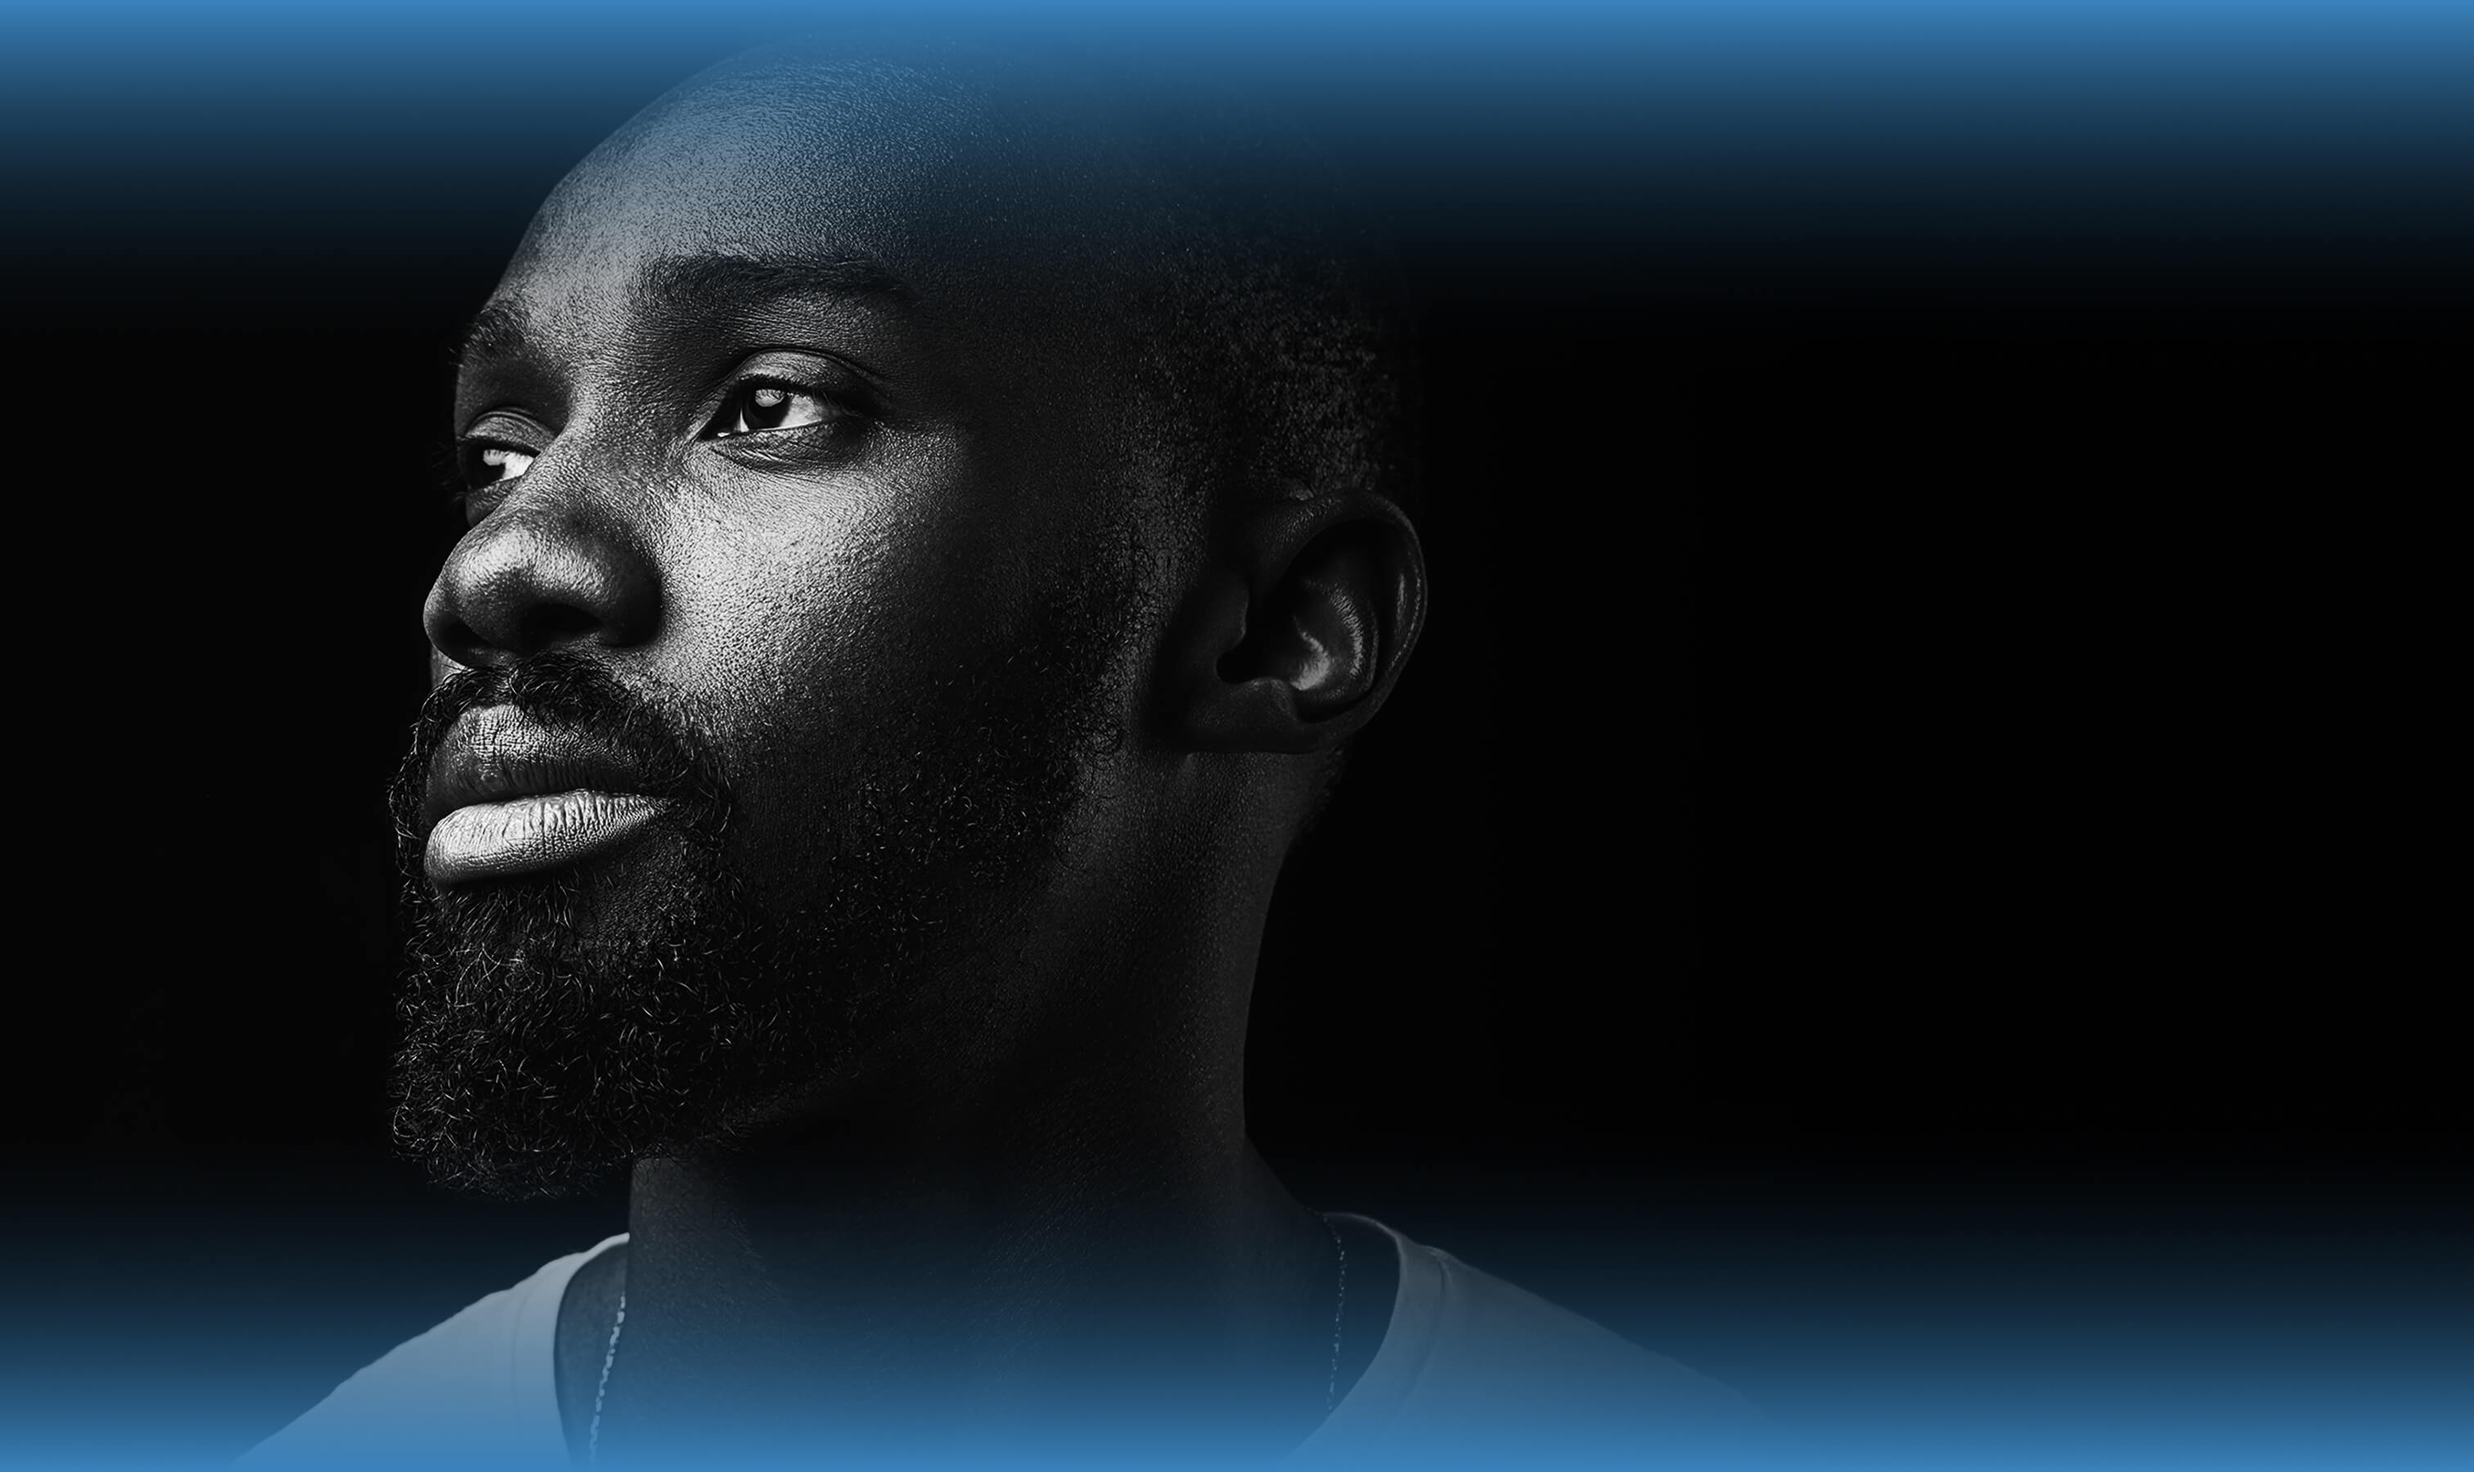
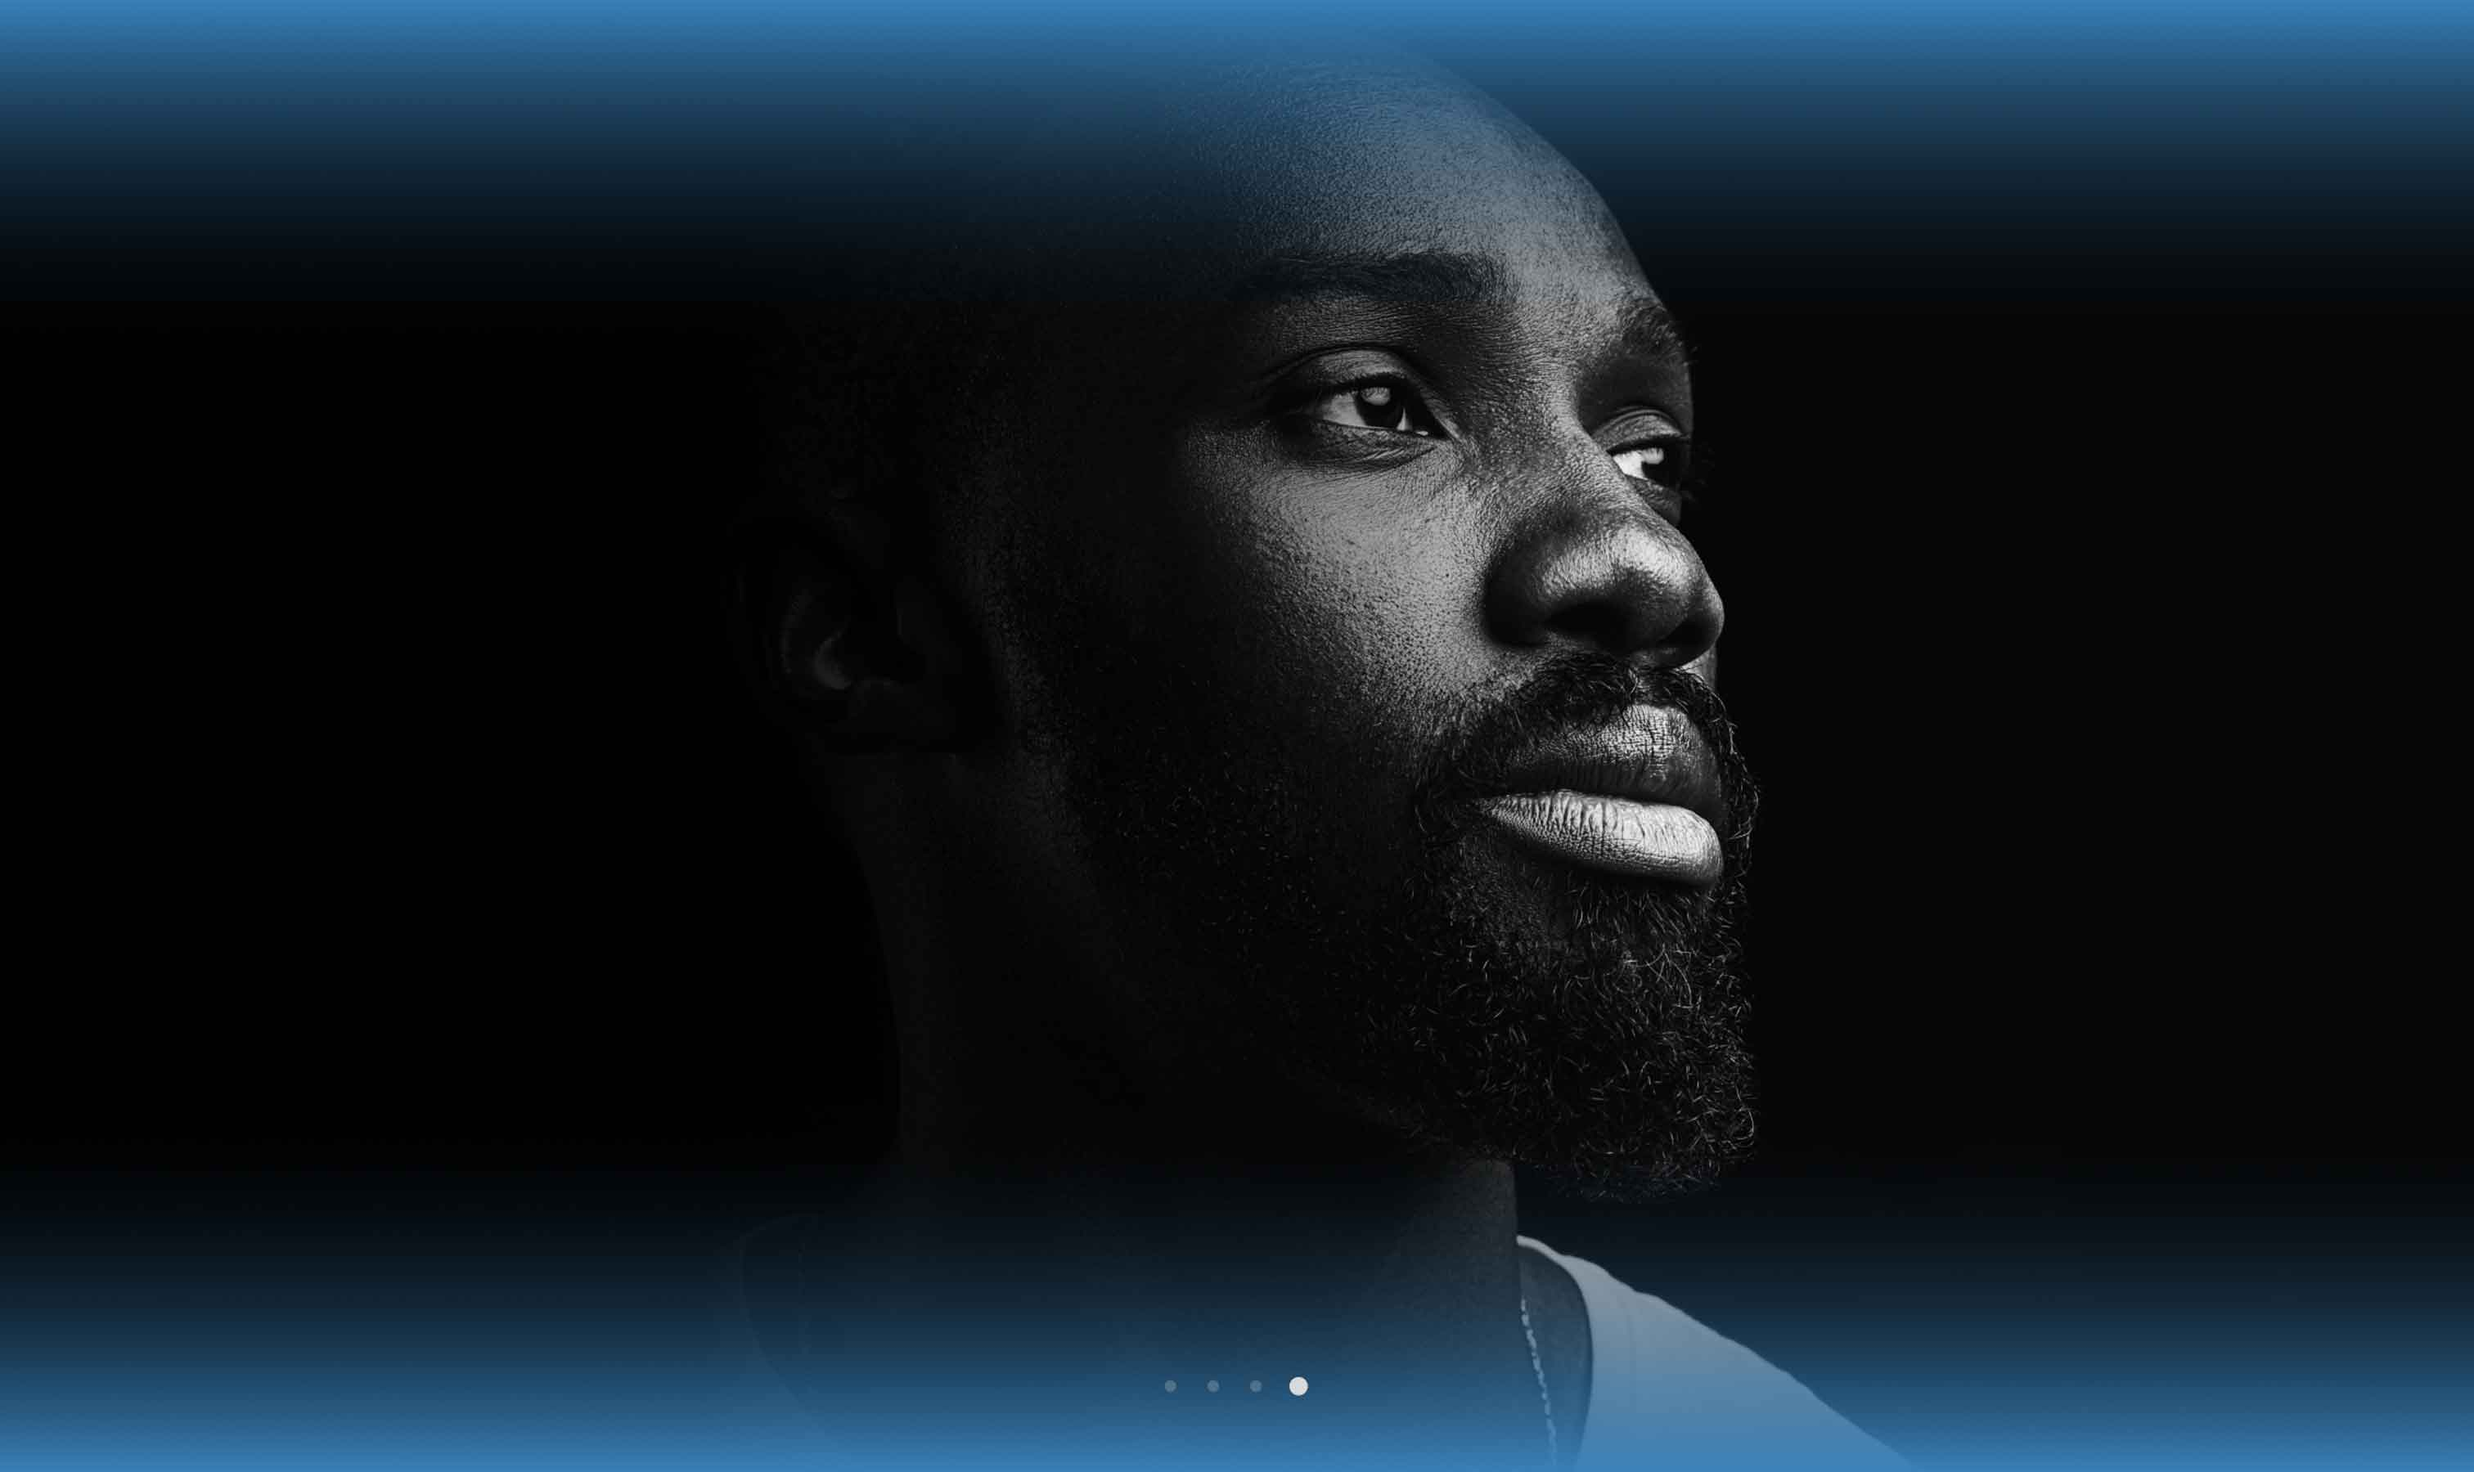
scroll mods, styles

diff --git a/src/app/components/ProductScroll.js b/src/app/components/ProductScroll.js
@@ -89,7 +89,7 @@ export default function ProductScroll({ productRef }) {
                 scrub: 1,
                 snap: {
                     snapTo: 1 / (panel.current.length - 1),
-                    duration: 0.5,
+                    duration: 2,
                     ease: "power1.inOut",
                 },
                 end: `+=${totalScroll}`, // Ensures smooth exit
@@ -133,13 +133,38 @@ export default function ProductScroll({ productRef }) {
             context.drawImage(images[index], 0, 0, canvas.width, canvas.height);
         };
 
+        const resizeCanvas = () => {
+            const aspectRatio = 1920 / 1080; // Replace with your canvas aspect ratio
+            const containerWidth = canvas.parentElement.offsetWidth;
+            const containerHeight = canvas.parentElement.offsetHeight;
+
+            if (window.innerWidth <= 800) {
+                canvas.height = containerHeight;
+                canvas.width = canvas.height * aspectRatio;
+            } else {
+                if (containerWidth / containerHeight > aspectRatio) {
+                    canvas.width = containerHeight * aspectRatio;
+                    canvas.height = containerHeight;
+                } else {
+                    canvas.width = containerWidth;
+                    canvas.height = containerWidth / aspectRatio;
+                }
+            }
+
+            render(0); // Render the first frame after resizing
+        };
+
+        window.addEventListener('resize', resizeCanvas);
+        resizeCanvas(); // Initial resize
+
         const imageSequence = gsap.timeline({
             scrollTrigger: {
                 trigger: canvas,
-                start: "top top",
-                end: "bottom-=20% top", // Adjust the duration as needed
+                start: window.innerWidth <= 800 ? "top-=150% top" : "top-=100% top",
+                end: "bottom+=20% top", // Adjust the duration as needed
                 scrub: true,
                 pin: true,
+                markers: false,
                 anticipatePin: 1,
                 onUpdate: self => {
                     const progress = self.progress.toFixed(2);
@@ -149,8 +174,8 @@ export default function ProductScroll({ productRef }) {
             }
         });
 
-
         return () => {
+            window.removeEventListener('resize', resizeCanvas);
             ScrollTrigger.getAll().forEach(trigger => trigger.kill());
         };
 

diff --git a/src/app/page.js b/src/app/page.js
@@ -99,10 +99,10 @@ export default function Home() {
         </section>
 
         <ProductScroll productRef={productDiv}/>
-        <div id="horizontal-spacer" style={{ height: "100vh" }}></div>
+        <div id="horizontal-spacer" style={{ height: "110vh" }}></div>
 
         <StatisticsScroll statsRef={statsDiv}/>
-        <div id="horizontal-spacer2" style={{ height: "100vh" }}></div>
+        <div id="horizontal-spacer2" style={{ height: "110vh" }}></div>
         <TakeAction actionRef={actionDiv}/>
         <footer className={styles.footer}>
           <div className={styles.footerContent}>
@@ -110,16 +110,16 @@ export default function Home() {
               <p>&copy; 2025 HNDSUP ALL RIGHTS RESERVED</p>
             </div>
             <div className={styles.footerLogoContainer}>
-              <a>
+              <a href="https://www.facebook.com/OfficialCourageousConversation" target="_blank" rel="noreferrer" aria-label="Facebook">
                 <Image src="/images/facebook.svg" alt="facebook" width={23} height={23} className={styles.footerLogos}/>
               </a>
-              <a>
+              <a href="https://www.instagram.com/ccaboutrace/" target="_blank" rel="noreferrer" aria-label="Instagram">
                 <Image src="/images/instagram.svg" alt="instagram" width={23} height={23} className={styles.footerLogos}/>  
               </a>
-              <a>
+              <a href="https://x.com/CCAboutRace" target="_blank" rel="noreferrer" aria-label="Twitter">
                 <Image src="/images/twitter.svg" alt="twitter" width={23} height={23} className={styles.footerLogos}/>
               </a>
-              <a>
+              <a href="https://www.linkedin.com/company/courageous-conversation-official/" target="_blank" rel="noreferrer" aria-label="Youtube">
                 <Image src="/images/youtube.svg" alt="youtube" width={23} height={23} className={styles.footerLogos}/>
               </a>
             </div>

diff --git a/src/app/components/LoadingScreen.js b/src/app/components/LoadingScreen.js
@@ -22,7 +22,7 @@ export default function LoadingScreen () {
 
     return (
         <div className={styles.loadingScreen}>
-            <svg width="319" height="209" viewBox="0 0 319 209" fill="none" xmlns="http://www.w3.org/2000/svg">
+            <svg className={styles.loadingLogo} width="319" height="209" viewBox="0 0 319 209" fill="none" xmlns="http://www.w3.org/2000/svg">
             <g clipPath="url(#clip0_182_603)">
             <path d="M241.538 98.8705C254.035 98.8705 259.306 93.3725 260.956 86.0447L279.725 2.36663C279.901 1.58483 279.31 0.841064 278.518 0.841064H263.491C262.913 0.841064 262.41 1.24676 262.284 1.81726L243.758 85.1277C243.21 86.6998 242.845 87.0928 241.58 87.0928C240.315 87.0928 239.59 86.6998 240.139 85.1277L258.539 2.36241C258.711 1.58061 258.124 0.841064 257.332 0.841064H242.481C241.903 0.841064 241.4 1.24676 241.274 1.81303L222.388 85.9095C220.733 93.3683 225.97 98.8663 239.012 98.8663H241.546L241.538 98.8705Z" fill="white"/>
             <path d="M297.3 56.2009C304.363 56.2009 308.9 53.585 310.551 46.384L318.452 10.9156C319.923 3.71877 315.222 0.83667 307.438 0.83667H284.346C283.868 0.83667 283.454 1.17052 283.349 1.6396L261.937 97.0152C261.798 97.6279 262.259 98.2111 262.883 98.2111H266.75C273.734 98.2111 279.784 93.3301 281.317 86.4587L287.861 57.1179C287.978 56.5812 288.452 56.2009 288.996 56.2009H297.304H297.3ZM298.071 12.0354C298.234 11.3044 298.879 10.7888 299.621 10.7888C301.07 10.7888 301.611 11.5748 301.242 13.0116L294.262 44.0301C293.714 45.6022 293.169 45.8642 291.719 45.8642C291.07 45.8642 290.588 45.2557 290.731 44.6175L298.066 12.0354H298.071Z" fill="white"/>

diff --git a/src/app/styles/components/scrollnav.module.css b/src/app/styles/components/scrollnav.module.css
@@ -7,8 +7,7 @@
     height: 100px;
     position: absolute;
     bottom: 0;
-    left: 50%;
-    transform: translateX(-50%);
+
     z-index: 1;
 }
 
@@ -20,23 +19,37 @@
         /* height: 65px!important; */
     }
 
+    .scrollNavButton {
+        height: 100px!important;
+        justify-content: end!important;
+    }
+    .scrollNavButton button{
+        /* margin-bottom: 3%; */
+    }
+
+    .scrollNavButtonSpacer {
+        height: 40px!important;
+    }
+
     .scrollNavButton img {
-        bottom: 6%!important;
+        width: 30%!important;
+        bottom: 20%!important;
     }
 }
 
 .scrollNavButton {
     width: 60px;
-    height: 100px;
+    height: 200px;
     display: flex;
-    justify-content: center;
+    justify-content: start;
     align-items: center;
     flex-direction: column;
 }
 
 .scrollNavButton img {
+    max-width:41.5px;
     width: 50%;
-    height: 50%;
+    height: auto;
     /* display: flex; */
     opacity: 0;
     position: relative;
@@ -52,6 +65,8 @@
 .scrollNavButton button {
     width: 7px;
     height: 7px;
+    max-width: 7px;
+    max-height: 7px;
     background-color: #D9D9D9;
     border-radius: 50%;
     border: none;
@@ -59,8 +74,19 @@
     opacity: 0.25;
     transition: all 0.3s ease-in-out;
     position: relative;
-    bottom: 3%;
+    /* bottom: 3%; */
+    /* margin-bottom: 60%; */
     /* display: flex; */
+}
+
+.scrollNavButtonSpacer {
+    width: 60px;
+    height: 100px;
+    display: flex;
+    justify-content: center;
+    align-items: center;
+    flex-direction: column;
+
 }
 
 .scrollNavButton button.setActive {

diff --git a/src/app/styles/components/productscroll.module.css b/src/app/styles/components/productscroll.module.css
@@ -2,7 +2,8 @@
     width: 100%;
     height: 100vh;
     position: relative;
-    background-color: black;    
+    background-color: black;
+    scroll-snap-type: y mandatory;    
     /* overflow: hidden; */
   }
   
@@ -14,7 +15,7 @@
     width: 100%;
     height: 100%;
     overflow-x: hidden; /* Enable horizontal scrolling */
-    scroll-snap-type: x mandatory; /* Optional: Snap to slides */
+    scroll-snap-type: y mandatory; /* Optional: Snap to slides */
     position: relative;
   }
 
@@ -27,6 +28,7 @@
     width: 100%;
     height: 100%;
     position: relative;
+    scroll-snap-type: y mandatory;
   }
   
   .productSlide {
@@ -46,17 +48,26 @@
     text-align: center;
   } */
 .imageSequence {
-    display: flex;
-    justify-content: center;
-    align-items: center;
-    flex-direction: column;
-    width: 100%;
-    height: 100%;
+    display: block;
+    width: 100%!important;
+    height: auto;
+    max-width: 100%!important;
+    max-height: 100%!important;
     position: relative;
-    top: 0;
-    transform: translate(0px, 0px)!important;
-    margin: auto 0;
+    top: 0!important;
+    transform: translateY(0px)!important;
+    margin: auto;
 }
+
+@media (max-width: 800px) { 
+    .imageSequence {
+      top: auto!important;
+      height: 100vh;
+      width: auto!important;
+    }
+
+  }
+
 
   .productSlideContent {
     display: flex;

diff --git a/src/app/styles/page.module.css b/src/app/styles/page.module.css
@@ -36,6 +36,13 @@
 
 }
 
+@media (max-height: 1200px) {
+  .fistImage  {
+    width: 50%!important;
+  }
+
+}
+
 .fistImage {
   transition: transform 0.3s ease-in-out;
   /* max-width: 381px; */
@@ -58,10 +65,10 @@
   /* z-index: 1; */
 }
 
-@media (max-width: 800px) { 
+@media (max-width: 900px) { 
   .heroContent {
     flex-direction: column;
-    justify-content: end;
+    justify-content: space-evenly;
   }
 
   .fistContainer {
@@ -221,7 +228,7 @@
   font-family: var(--font-rational-tw-display-light);
 }
 
-@media (max-width: 800px) {
+@media (max-width: 900px) {
   .footerText p {
     font-size: 0.45rem!important;
   }
@@ -256,8 +263,8 @@
 }
 
 .loadingLogo {
-  width: 319px; /* Adjust the size as needed */
-  height: 209px;
+  width: 219px!important; /* Adjust the size as needed */
+  height: auto;
 }
 
 

diff --git a/src/app/components/ScrollNav.js b/src/app/components/ScrollNav.js
@@ -17,6 +17,7 @@ export default function ScrollNav({active, ref, scrolltype, markers}) {
                         <div className={scrollNavStyles.scrollNavButton} key={index}>
                         <Image src={`/images/scrollnav/${marker}.svg`} alt="spacer" width={28} height={46} className={`${active === index ? scrollNavStyles.setActive : ''} ${scrolltype === 'stats' ? scrollNavStyles.hide : ''}`}/>
                         <button className={`${active === index ? scrollNavStyles.setActive : ''}`}></button>
+                        <div className={scrollNavStyles.scrollNavButtonSpacer}></div>
                         </div>
                     )
                 })}

diff --git a/src/app/styles/components/statisticsscroll.module.css b/src/app/styles/components/statisticsscroll.module.css
@@ -3,6 +3,7 @@
   height: 100vh;
   position: relative;
   background-color: black;
+  scroll-snap-type: y mandatory;
   /* overflow: hidden; */
 }
 
@@ -14,7 +15,7 @@
   width: 100%;
   height: 100%;
   overflow-x: hidden; /* Enable horizontal scrolling */
-  scroll-snap-type: x mandatory; /* Optional: Snap to slides */
+  scroll-snap-type: y mandatory; /* Optional: Snap to slides */
   position: relative;
 }
 
@@ -26,6 +27,7 @@
   width: 100%;
   height: 100%;
   position: relative;
+  scroll-snap-type: y mandatory;
 }
 
 .statsSlide {

diff --git a/src/app/components/StatisticsScroll.js b/src/app/components/StatisticsScroll.js
@@ -87,8 +87,8 @@ export default function StatisticsScroll({ statsRef }) {
                 scrub: 1,
                 snap: {
                     snapTo: 1 / (panel.current.length - 1),
-                    duration: 0.5,
-                    ease: "none",
+                    duration: 2,
+                    ease: "power1.inOut",
                 },
                 end: `+=${totalScroll}`, // Ensures smooth exit
             },

diff --git a/src/app/styles/components/takeaction.module.css b/src/app/styles/components/takeaction.module.css
@@ -20,7 +20,7 @@
     flex-direction: column;
     position: absolute;
     z-index: -1;
-    top: 20%;
+    
 }
 
 .takeActionImageContainer img {
@@ -92,7 +92,7 @@
 } */
 
 .takeActionContent {
-    width: 70%;
+    width: 90%;
     height: auto;
     display: flex;
     flex-direction: row;
